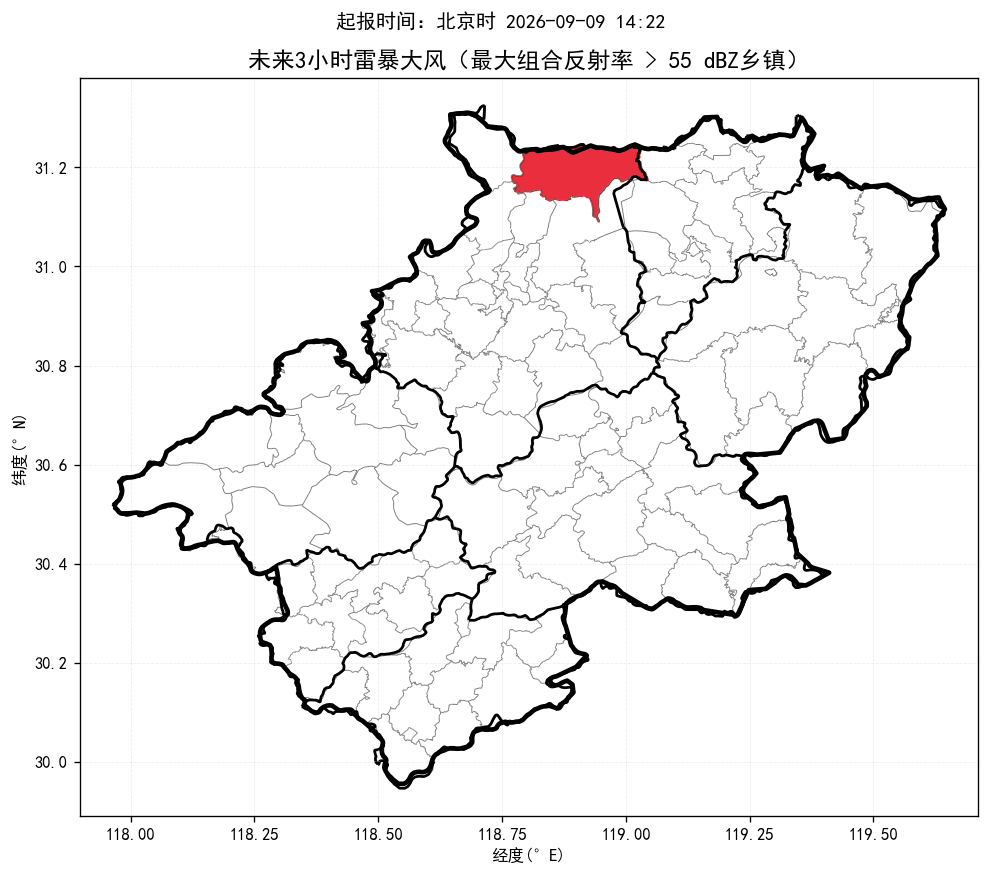
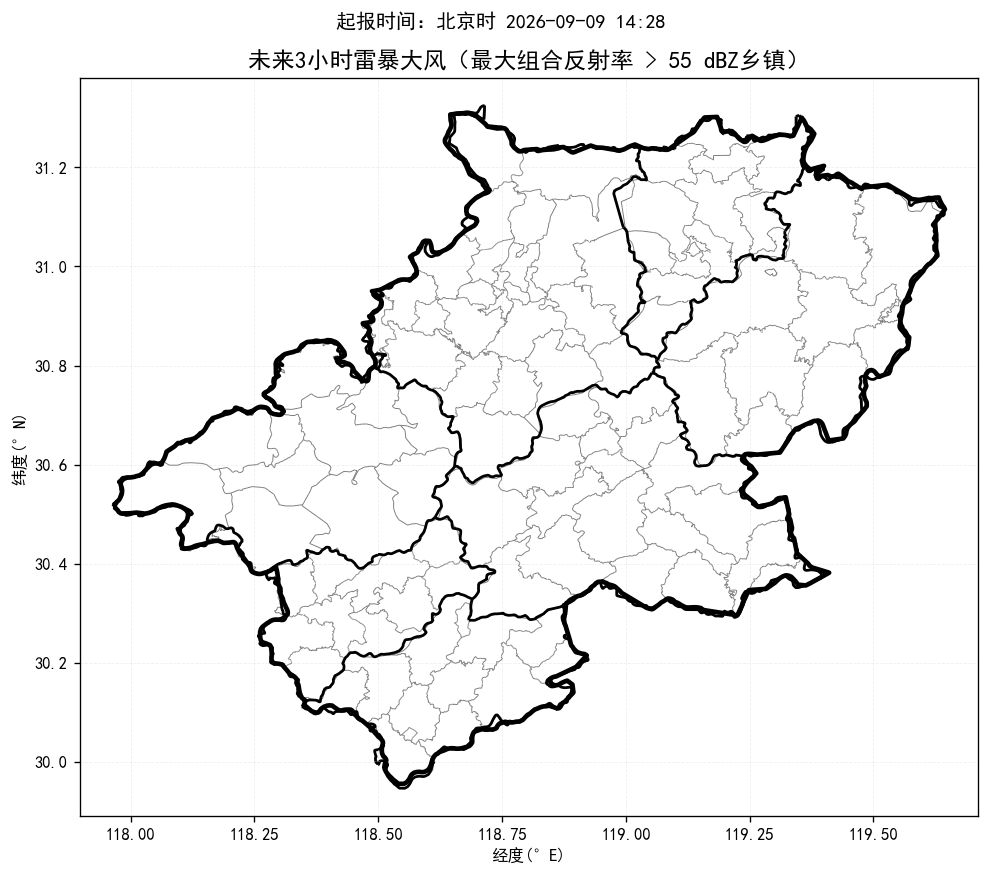
update nowcast products

Changed region(s): [[0.5152, 0.1541, 0.6667, 0.2466]]

diff --git a/index.html b/index.html
@@ -14,14 +14,14 @@ img.product{display:block;width:100%;height:auto;margin:10px auto 26px;border:1p
 .footer{font-size:13px;color:#777;text-align:center;margin-top:30px}
 @media(max-width:700px){.sheet{margin:0;padding:18px 15px}.alert-title{font-size:22px}.county-line{font-size:17px}.prob{font-size:18px}}
 </style></head><body><main class="sheet">
-<div class="time">起报时间：北京时 2026-09-09 14:22</div>
-<div class="alert-title">未来一小时降水量超过 20 毫米的乡镇：</div><div class="county-line">宣州区：狸桥镇、沈村镇</div>
-<div class="alert-title">未来三小时降水量超过 50 毫米的乡镇：</div><div class="county-line">宣州区：狸桥镇</div>
-<div class="alert-title">未来三小时雷暴大风（组合反射率 > 55 dBZ）的乡镇：</div><div class="county-line">宣州区：狸桥镇</div>
-<div class="prob">最大降水量概率预估：宣城市范围内未来三小时累计降水达到50毫米概率约66%，达到80毫米概率约10%，达到100毫米概率约3%。</div>
-<div class="section-title">未来降水预报图：</div><img class="product auto-refresh-product" data-src="短临降水预报.png" src="短临降水预报.png?v=20260909142830" alt="未来降水预报图">
-<div class="section-title">未来三小时组合反射率图：</div><img class="product auto-refresh-product" data-src="未来3小时组合反射率.png" src="未来3小时组合反射率.png?v=20260909142830" alt="未来三小时组合反射率图">
-<div class="section-title">未来三小时雷暴大风图：</div><img class="product auto-refresh-product" data-src="未来3小时雷暴大风.png" src="未来3小时雷暴大风.png?v=20260909142830" alt="未来三小时雷暴大风图">
+<div class="time">起报时间：北京时 2026-09-09 14:28</div>
+<div class="alert-title">未来一小时降水量超过 20 毫米的乡镇：</div><div class="county-line">宣州区：狸桥镇</div>
+<div class="alert-title">未来三小时降水量超过 50 毫米的乡镇：</div><div class="county-line">无</div>
+<div class="alert-title">未来三小时雷暴大风（组合反射率 > 55 dBZ）的乡镇：</div><div class="county-line">无</div>
+<div class="prob">最大降水量概率预估：宣城市范围内未来三小时累计降水达到50毫米概率约7%，达到80毫米概率约0%，达到100毫米概率约0%。</div>
+<div class="section-title">未来降水预报图：</div><img class="product auto-refresh-product" data-src="短临降水预报.png" src="短临降水预报.png?v=20260909143409" alt="未来降水预报图">
+<div class="section-title">未来三小时组合反射率图：</div><img class="product auto-refresh-product" data-src="未来3小时组合反射率.png" src="未来3小时组合反射率.png?v=20260909143409" alt="未来三小时组合反射率图">
+<div class="section-title">未来三小时雷暴大风图：</div><img class="product auto-refresh-product" data-src="未来3小时雷暴大风.png" src="未来3小时雷暴大风.png?v=20260909143409" alt="未来三小时雷暴大风图">
 <div class="footer">三张产品图每 60 秒自动刷新一次；每次请求自动附加新的URL参数以绕过缓存。</div>
 <script>
 (function() {
